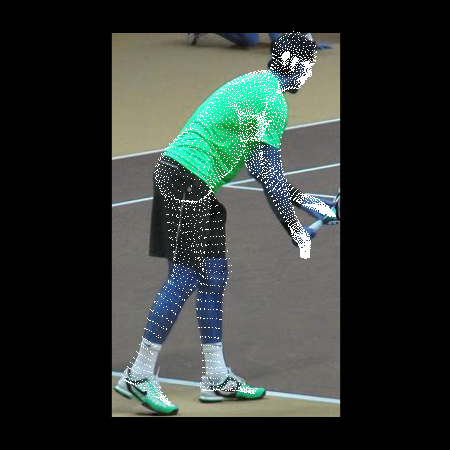
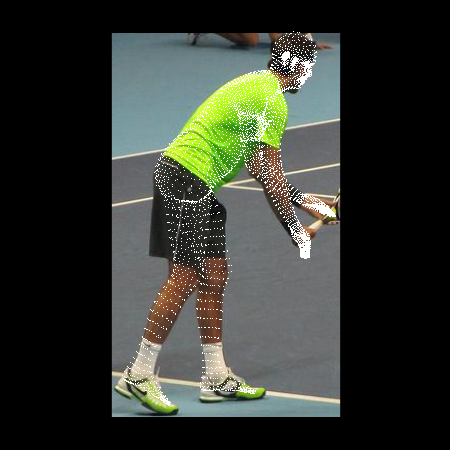
Fix some subtle bugs and add a meshlab snapshot for illustration.

diff --git a/fit_3d_accurate.py b/fit_3d_accurate.py
@@ -589,6 +589,7 @@ def main(img_dir, joint_dir, joint_scores_dir, seg_dir, smpl_param_dir, smpl_dir
             fp.write('%f ' % v)
     img = proj_smpl_onto_img(img, model, params['pose'],
                              params['betas'], params['f'], params['cam_t'])
+    img = cv2.cvtColor(img, cv2.COLOR_RGB2BGR)
     cv2.imshow('img', img)
     cv2.imwrite(os.path.join(out_dir, img_name+'.smpl_proj.png'), img)
     cv2.imwrite(os.path.join(out_dir, img_name+'.soft_mask.png'),

diff --git a/main.py b/main.py
@@ -156,9 +156,9 @@ def main(img_fname, out_dir):
     if not os.path.exists(out_dir):
         os.mkdir(out_dir)
 
-    # detect_human(img_fname, out_dir)
-    # crop_or_pad_img(img_fname, out_dir)
-    # infer_smpl_and_pose(img_fname, out_dir)
+    detect_human(img_fname, out_dir)
+    crop_or_pad_img(img_fname, out_dir)
+    infer_smpl_and_pose(img_fname, out_dir)
     optimize_smpl(img_fname, out_dir)
 
 
